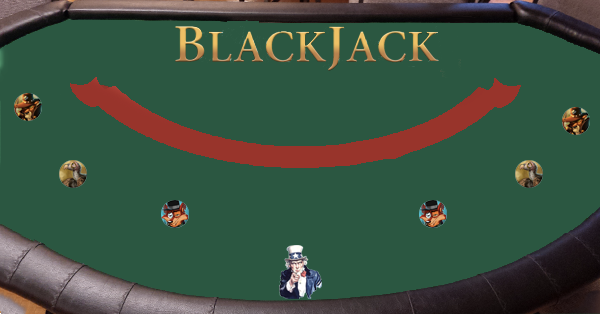
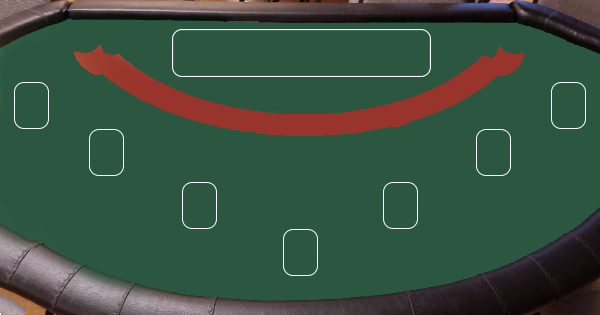
feat():continue interface java

diff --git a/BlackJack/src/Jeu/Jeu.java b/BlackJack/src/Jeu/Jeu.java
@@ -1,5 +1,6 @@
 package Jeu;
 
+import java.awt.Color;
 import java.awt.Font;
 import java.awt.Graphics;
 
@@ -19,6 +20,8 @@ public class Jeu extends JPanel implements Constante{
 	
 	public Plateau plateau = new Plateau(this);
 	public ListeJoueur listeJoueur = new ListeJoueur(this);
+	
+	int nbJoueurCheck = 0;
 	
 	public Jeu(FrameJeu frameJeu, ControllerJeu controllerJeu) {
 		this.frameJeu = frameJeu;
@@ -56,7 +59,66 @@ public class Jeu extends JPanel implements Constante{
 		g.drawImage(cadre,100,20, 1000,500, this);
 		g.drawImage(cadre,115,530, 480,200, this);
 		g.drawImage(cadre,610,530, 480,200, this);
-		g.drawImage(fondPlateau,135,35,940,472, this);
+		g.drawImage(fondPlateau,135,35,940,483, this);
+		dessinerConnection(g);
+	}
+
+	private void dessinerConnection(Graphics g) {
+		g.setColor(Color.GREEN);
+		g.fillOval(620, 440, 20, 20);
+		
+		for(int i = 0 ; i < listeJoueur.getListeJoueur().size();i++) {
+			if(!listeJoueur.getListeJoueur().get(i).isJoueurPrincipal()) {
+				switch(i) {
+				case 1:
+					g.fillOval(200, 215, 20, 20);
+					break;
+				case 2:
+					g.fillOval(315, 290, 20, 20);	
+					break;
+				case 3:
+					g.fillOval(460, 370, 20, 20);	
+					break;
+				case 4:
+					g.fillOval(780, 365, 20, 20);
+					break;
+				case 5:
+					g.fillOval(925, 290, 20, 20);	
+					break;
+				case 6:
+					g.fillOval(1040, 215, 20, 20);	
+					break;
+				}
+				nbJoueurCheck++;
+			}
+		}
+		
+		g.setColor(Color.RED);
+		for(int i = nbJoueurCheck ; i < 7;i++) {
+			if(!listeJoueur.getListeJoueur().get(i).isJoueurPrincipal()) {
+				switch(i) {
+				case 1:
+					g.fillOval(200, 215, 20, 20);
+					break;
+				case 2:
+					g.fillOval(315, 290, 20, 20);	
+					break;
+				case 3:
+					g.fillOval(460, 370, 20, 20);	
+					break;
+				case 4:
+					g.fillOval(780, 365, 20, 20);
+					break;
+				case 5:
+					g.fillOval(925, 290, 20, 20);	
+					break;
+				case 6:
+					g.fillOval(1040, 215, 20, 20);	
+					break;
+				}
+			}
+		}
+		nbJoueurCheck = 0;
 	}
 
 	public void reset() {

diff --git a/BlackJack/src/Base/BlackJack.java b/BlackJack/src/Base/BlackJack.java
@@ -4,7 +4,9 @@ import javax.swing.UIManager;
 import javax.swing.UnsupportedLookAndFeelException;
 
 import Constante.ConstanteResau;
+import Jeu.FrameJeu;
 import Panel.Menu.FrameJeuMenu;
+import Reseau.BlackJackClient;
 import Reseau.GeneratorEntete;
 import Reseau.Parser;
 
@@ -12,12 +14,7 @@ public class BlackJack implements ConstanteResau{
 	
 	public static void main(String [] args) {
 		
-		System.out.println(GeneratorEntete.share.generationEnteteGet(connect));
-		System.out.println(GeneratorEntete.share.generationEntetePostNumber(mise,200));
-		System.out.println(GeneratorEntete.share.generationEntetePostString("NEXISTE/PAS","AU CAS OU"));
-		
-		System.out.println("POUR VOIR AUTRE ROUTES : Constante -> ConstanteReseau");
-		
-		FrameJeuMenu fen1=new FrameJeuMenu();
+		//FrameJeuMenu fen1=new FrameJeuMenu();
+		FrameJeu fenetreclient = new FrameJeu(null);
 	}
 }

diff --git a/BlackJack/src/Jeu/Panel/ListeJoueur.java b/BlackJack/src/Jeu/Panel/ListeJoueur.java
@@ -96,12 +96,20 @@ public class ListeJoueur extends JPanel implements Constante{
 
 	public void addJoueur(Joueur joueur) {
 		list.setLayout(null);
+		listeJoueur.add(joueur);
 		list.add(new labelJouer(joueur.getid(),joueur.getNom(),joueur.getsomme(),list.getComponentCount()));
 		list.setPreferredSize(new Dimension(list.getComponentCount()*138+(list.getComponentCount()+1)*20,200));
 		list.setBounds(0,0,list.getComponentCount()*138+(list.getComponentCount()+1)*20,200);
 	}
 
 	public void removeJoueurs() {
+		listeJoueur.clear();
 		list.removeAll();
 	}
+
+	public ArrayList<Joueur> getListeJoueur() {
+		return listeJoueur;
+	}
+	
+	
 }

diff --git a/BlackJack/src/Model/Joueur.java b/BlackJack/src/Model/Joueur.java
@@ -6,6 +6,7 @@ public class Joueur {
 
 	private int id_joueur;
 	private String nom;
+	private boolean joueurPrincipal;
 	private int credit;
 	private int mise_totale;
 	private int mise_actuelle;
@@ -92,6 +93,14 @@ public class Joueur {
 
 	public void setJeux(ArrayList<Jeu> jeux) {
 		this.jeux = jeux;
+	}
+
+	public boolean isJoueurPrincipal() {
+		return joueurPrincipal;
+	}
+
+	public void setJoueurPrincipal(boolean joueurPrincipal) {
+		this.joueurPrincipal = joueurPrincipal;
 	}
 
 	@Override

diff --git a/BlackJack/src/Jeu/ModelJeu.java b/BlackJack/src/Jeu/ModelJeu.java
@@ -40,8 +40,10 @@ public class ModelJeu {
 		for(int i  = 0 ; i < plateau.getListJoueur().size();i++) {
 			if(plateau.getListJoueur().get(i).getid() == id) {
 				plateau.getListJoueur().get(i).setNom("YOU");
+				plateau.getListJoueur().get(i).setJoueurPrincipal(true);
 			}else {
 				plateau.getListJoueur().get(i).setNom("Joueur" + plateau.getListJoueur().get(i).getid());
+				plateau.getListJoueur().get(i).setJoueurPrincipal(false);
 			}
 		}
 	}

diff --git a/BlackJack/src/Model/CarteCouleur.java b/BlackJack/src/Model/CarteCouleur.java
@@ -1,5 +1,18 @@
 package Model;
 
 public enum CarteCouleur {
-	coeur,carreau,trefle,pique
+	coeur,carreau,trefle,pique;
+	
+	public static String getDirectory(CarteCouleur couleur) { 
+		switch(couleur) {
+		case coeur :
+			return "coeur";
+		case carreau :
+			return "carreau";
+		case trefle :
+			return "trefle";
+		default :
+			return "coeur";
+		}
+	}
 }
